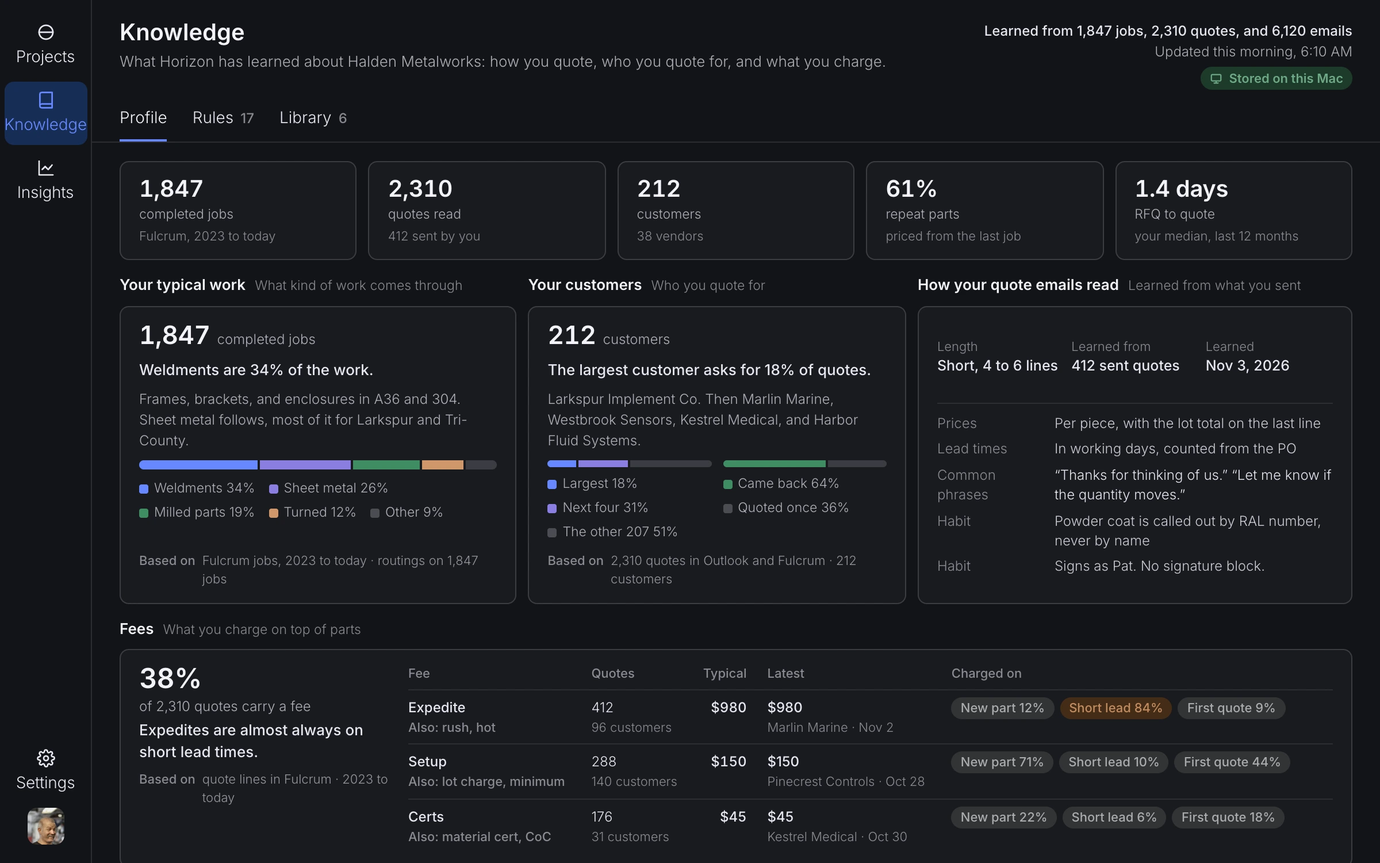
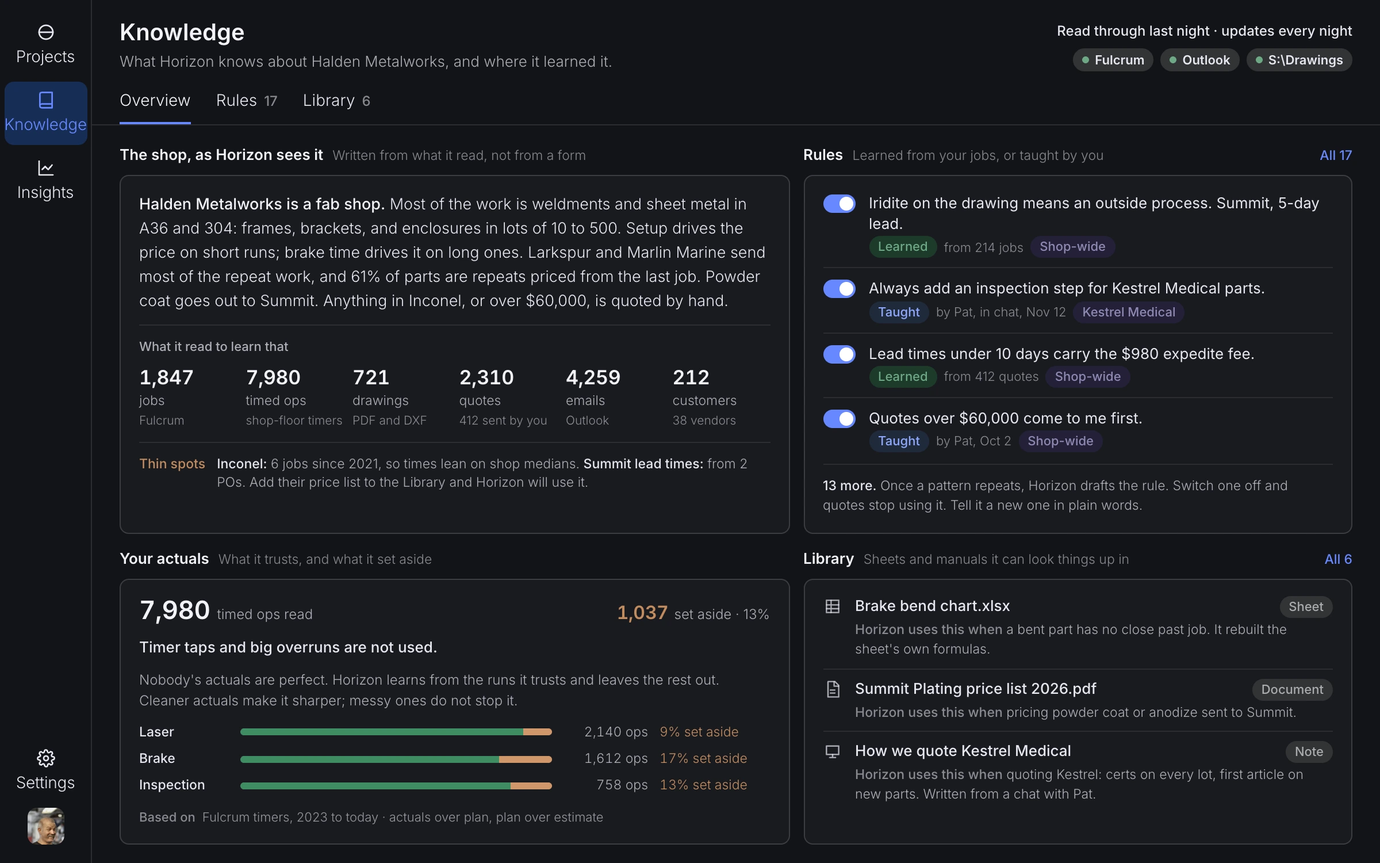
horizon shop-knowledge: Overview rebuilt around the demo walkthrough
The shop in prose, what it read (incl. timed ops), the unreliable actuals it set aside with the count,
a Rules preview (learned vs taught, per-customer scope, toggles), a Library row, three sources in the header.
Tabs Overview / Rules / Library per Alex's Nov 14 redesign. Phone stage 340x1330; posters re-rendered.

diff --git a/horizon/shop-knowledge/index.html b/horizon/shop-knowledge/index.html
@@ -1,18 +1,19 @@
 <!doctype html>
 <!--
-  Horizon - shop-knowledge - "What Horizon learned at Halden Metalworks"
-  A still, not a loop: the Knowledge screen of the shipped dark Horizon UI (rail Projects / Knowledge / Insights / Settings),
-  Shop Profile tab as merged Nov 16 (PR 20413): header, five KPI tiles, Your typical work, Your customers, Fees table,
-  How the shop's quote emails read. Filled with the Halden Metalworks sample set (Pat, Larkspur, Marlin Marine, Westbrook,
-  Kestrel, Harbor Fluid, Pinecrest, Tri-County; vendors Summit, Prairie, Apex). Tabs Rules 17 and Library 6 follow Alex's
-  Nov 15 Knowledge design. Design 1200x750, scales to width; under 700px the stage reflows to one column at 340 wide.
-  No libraries, no images, no audio. Simulated on sample data; every number is invented.
+  Horizon - shop-knowledge - "What Horizon knows about Halden Metalworks"
+  A still, not a loop: the Knowledge screen of the shipped dark Horizon UI (rail Projects / Knowledge / Insights / Settings).
+  Nov 19 rebuild around what Alex shows on every demo and what customers react to: the three sources (Fulcrum, Outlook,
+  the drawings drive), the shop written up in prose, what it read to learn that (incl. timed ops), the unreliable actuals
+  it set aside with the count, a Rules preview (learned vs taught, per-customer scope, toggles), and a Library row.
+  Tabs Overview / Rules 17 / Library 6 follow Alex's Nov 14 Knowledge redesign. Halden Metalworks sample set (Pat, Larkspur,
+  Marlin Marine, Kestrel Medical, Summit). Design 1200x750, scales to width; under 700px the stage reflows to one column
+  at 340 wide. No libraries, no audio. Simulated on sample data; every number is invented.
 -->
 <html lang="en">
 <head>
 <meta charset="utf-8" />
 <meta name="viewport" content="width=device-width, initial-scale=1" />
-<title>Horizon: what it learned at Halden Metalworks</title>
+<title>Horizon: what it knows about Halden Metalworks</title>
 <link rel="preconnect" href="https://fonts.googleapis.com" />
 <link rel="preconnect" href="https://fonts.gstatic.com" crossorigin />
 <link href="https://fonts.googleapis.com/css2?family=Inter:wght@300;400;500;600;700&display=swap" rel="stylesheet" />
@@ -42,14 +43,12 @@ body { display: flex; justify-content: center; }
 .hz-shop-knowledge .hzk-rail-spacer { flex: 1 1 auto; }
 .hz-shop-knowledge .hzk-avatar { width: 32px; height: 32px; border-radius: 8px; overflow: hidden; display: block; margin: 0 0 4px; }
 .hz-shop-knowledge .hzk-avatar img { display: block; width: 100%; height: 100%; object-fit: cover; }
-.hz-shop-knowledge .hzk-pill { flex: none; padding: 0 8px; border-radius: 12px; line-height: 20px; font-size: 11px; font-weight: 600; background: var(--tag-bg); color: var(--tag-fg); white-space: nowrap; }
-.hz-shop-knowledge .hzk-pill.warn { background: var(--warn-bg); color: var(--warn-fg); }
-.hz-shop-knowledge .hzk-pill.info { background: var(--info-bg); color: var(--info-fg); }
-.hz-shop-knowledge .hzk-pill.pend { background: var(--pend-bg); color: var(--pend-fg); }
 .hz-shop-knowledge .hzk-tag { display: inline-block; padding: 0 8px; border-radius: 10px; line-height: 19px; font-size: 11px; font-weight: 600; background: var(--tag-bg); color: var(--tag-fg); white-space: nowrap; }
-.hz-shop-knowledge .hzk-tag.warn { background: var(--warn-bg); color: var(--warn-fg); }
+.hz-shop-knowledge .hzk-tag.learned { background: var(--ok-bg); color: var(--ok-fg); }
+.hz-shop-knowledge .hzk-tag.taught { background: var(--info-bg); color: var(--info-fg); }
+.hz-shop-knowledge .hzk-tag.scope { background: var(--pend-bg); color: var(--pend-fg); }
 
-/* ---- the Knowledge page (Shop Profile tab) ---- */
+/* ---- the Knowledge page (Overview tab) ---- */
 .hz-shop-knowledge .sk-main { flex: 1 1 auto; min-width: 0; display: flex; flex-direction: column; min-height: 0; overflow: hidden; }
 .hz-shop-knowledge .sk-head { padding: 16px 24px 0; border-bottom: 1px solid var(--line); }
 .hz-shop-knowledge .sk-head-row { display: flex; align-items: flex-start; gap: 16px; }
@@ -58,104 +57,105 @@ body { display: flex; justify-content: center; }
 .hz-shop-knowledge .sk-title p { margin: 4px 0 0; font-size: 13px; color: var(--mute2); }
 .hz-shop-knowledge .sk-meta { flex: none; text-align: right; font-size: 12px; color: var(--mute2); line-height: 1.5; padding-top: 2px; }
 .hz-shop-knowledge .sk-meta b { display: block; font-weight: 500; color: var(--fg); }
-.hz-shop-knowledge .sk-meta .where { display: inline-flex; align-items: center; gap: 6px; margin-top: 4px; padding: 0 8px; border-radius: 10px; line-height: 20px; font-size: 11px; font-weight: 600; background: var(--ok-bg); color: var(--ok-fg); }
-.hz-shop-knowledge .sk-meta .where svg { width: 11px; height: 11px; fill: none; stroke: currentColor; stroke-width: 2.4; stroke-linecap: round; stroke-linejoin: round; }
+.hz-shop-knowledge .sk-sources { display: inline-flex; gap: 6px; margin-top: 6px; }
+.hz-shop-knowledge .sk-src { display: inline-flex; align-items: center; gap: 5px; padding: 0 8px; border-radius: 10px; line-height: 20px; font-size: 11px; font-weight: 600; background: var(--tag-bg); color: var(--fg); white-space: nowrap; }
+.hz-shop-knowledge .sk-src svg { width: 11px; height: 11px; fill: none; stroke: currentColor; stroke-width: 2.2; stroke-linecap: round; stroke-linejoin: round; }
+.hz-shop-knowledge .sk-src i { width: 6px; height: 6px; border-radius: 50%; background: var(--good-fg); }
 .hz-shop-knowledge .sk-tabs { display: flex; gap: 22px; margin-top: 12px; }
 .hz-shop-knowledge .sk-tab { padding: 0 0 9px; border: 0; background: none; font-size: 13.5px; font-weight: 500; color: var(--mute2); border-bottom: 2px solid transparent; display: flex; gap: 6px; align-items: baseline; }
 .hz-shop-knowledge .sk-tab i { font-style: normal; font-size: 12px; color: var(--mute3); font-weight: 500; }
 .hz-shop-knowledge .sk-tab.is-on { color: var(--fg-strong); border-bottom-color: var(--link); }
 .hz-shop-knowledge .sk-tab.is-on i { color: var(--count); }
-.hz-shop-knowledge .sk-body { flex: 1 1 auto; min-height: 0; padding: 16px 24px 0; display: flex; flex-direction: column; gap: 12px; overflow: hidden; }
+.hz-shop-knowledge .sk-body { flex: 1 1 auto; min-height: 0; padding: 16px 24px 16px; display: grid; grid-template-columns: 1.22fr 1fr; grid-template-rows: auto auto; gap: 12px; overflow: hidden; }
 
-/* KPI tiles */
-.hz-shop-knowledge .sk-kpis { display: grid; grid-template-columns: repeat(5, minmax(0,1fr)); gap: 10px; }
-.hz-shop-knowledge .sk-kpi { border: 1px solid var(--line2); border-radius: 8px; background: var(--card); padding: 12px 16px; display: flex; flex-direction: column; gap: 2px; }
-.hz-shop-knowledge .sk-kpi b { font-size: 20px; font-weight: 600; color: var(--fg-strong); line-height: 1.15; font-variant-numeric: tabular-nums; letter-spacing: -.01em; }
-.hz-shop-knowledge .sk-kpi span { font-size: 11.5px; color: var(--mute2); }
-.hz-shop-knowledge .sk-kpi small { font-size: 11px; color: var(--mute3); }
-
-/* groups */
-.hz-shop-knowledge .sk-row { display: grid; grid-template-columns: 1.05fr 1fr 1.15fr; gap: 10px; align-items: stretch; }
-.hz-shop-knowledge .sk-group { display: flex; flex-direction: column; gap: 8px; min-width: 0; }
+/* groups and cards */
+.hz-shop-knowledge .sk-group { display: flex; flex-direction: column; gap: 8px; min-width: 0; min-height: 0; }
 .hz-shop-knowledge .sk-gh { display: flex; align-items: baseline; gap: 8px; min-width: 0; }
 .hz-shop-knowledge .sk-gh h2 { margin: 0; font-size: 13px; font-weight: 600; color: var(--fg-strong); white-space: nowrap; }
 .hz-shop-knowledge .sk-gh span { font-size: 11.5px; color: var(--mute3); white-space: nowrap; overflow: hidden; text-overflow: ellipsis; }
-.hz-shop-knowledge .sk-card { flex: 1 1 auto; border: 1px solid var(--line2); border-radius: 8px; background: var(--card); padding: 12px 16px; display: flex; flex-direction: column; gap: 8px; min-width: 0; }
-.hz-shop-knowledge .sk-stat { display: flex; align-items: baseline; gap: 6px; }
+.hz-shop-knowledge .sk-gh .more { margin-left: auto; font-size: 11.5px; color: var(--link); font-weight: 500; }
+.hz-shop-knowledge .sk-card { flex: 1 1 auto; border: 1px solid var(--line2); border-radius: 8px; background: var(--card); padding: 14px 16px; display: flex; flex-direction: column; gap: 10px; min-width: 0; }
+.hz-shop-knowledge .sk-prose { margin: 0; font-size: 13.5px; line-height: 1.55; color: var(--fg); font-weight: 300; }
+.hz-shop-knowledge .sk-prose b { font-weight: 500; color: var(--fg-strong); }
+.hz-shop-knowledge .sk-readh { display: flex; align-items: baseline; gap: 8px; padding-top: 10px; border-top: 1px solid var(--line); font-size: 11px; color: var(--mute3); }
+.hz-shop-knowledge .sk-readh b { font-weight: 500; color: var(--mute2); }
+.hz-shop-knowledge .sk-read { display: grid; grid-template-columns: repeat(6, minmax(0,1fr)); gap: 8px; margin: 0; padding: 0; list-style: none; }
+.hz-shop-knowledge .sk-read li { display: flex; flex-direction: column; gap: 1px; min-width: 0; }
+.hz-shop-knowledge .sk-read b { font-size: 17px; font-weight: 600; color: var(--fg-strong); line-height: 1.15; font-variant-numeric: tabular-nums; letter-spacing: -.01em; }
+.hz-shop-knowledge .sk-read span { font-size: 11.5px; color: var(--mute2); white-space: nowrap; }
+.hz-shop-knowledge .sk-read small { font-size: 10.5px; color: var(--mute3); white-space: nowrap; overflow: hidden; text-overflow: ellipsis; }
+
+/* thin spots */
+.hz-shop-knowledge .sk-thin { display: grid; grid-template-columns: auto 1fr; gap: 4px 10px; margin: 0; padding-top: 10px; border-top: 1px solid var(--line); font-size: 11.5px; line-height: 1.45; }
+.hz-shop-knowledge .sk-thin dt { color: var(--warn-fg); font-weight: 500; white-space: nowrap; }
+.hz-shop-knowledge .sk-thin dd { margin: 0; color: var(--mute2); }
+.hz-shop-knowledge .sk-thin dd b { font-weight: 500; color: var(--fg); }
+
+/* actuals */
+.hz-shop-knowledge .sk-stat { display: flex; align-items: baseline; gap: 6px; flex-wrap: wrap; }
 .hz-shop-knowledge .sk-stat b { font-size: 22px; font-weight: 600; color: var(--fg-strong); line-height: 1.1; font-variant-numeric: tabular-nums; letter-spacing: -.01em; }
 .hz-shop-knowledge .sk-stat span { font-size: 12px; color: var(--mute2); }
+.hz-shop-knowledge .sk-stat .set { margin-left: auto; display: inline-flex; align-items: baseline; gap: 5px; }
+.hz-shop-knowledge .sk-stat .set b { font-size: 16px; color: var(--warn-fg); }
 .hz-shop-knowledge .sk-card h3 { margin: 0; font-size: 13px; font-weight: 500; color: var(--fg); line-height: 1.4; }
 .hz-shop-knowledge .sk-detail { margin: 0; font-size: 12px; line-height: 1.5; color: var(--mute2); }
-.hz-shop-knowledge .sk-bar { display: flex; height: 8px; border-radius: 4px; overflow: hidden; gap: 2px; }
-.hz-shop-knowledge .sk-bar i { display: block; height: 100%; }
-.hz-shop-knowledge .sk-legend { display: flex; flex-wrap: wrap; gap: 4px 12px; margin: 0; padding: 0; list-style: none; font-size: 11.5px; color: var(--mute2); }
-.hz-shop-knowledge .sk-legend li { display: flex; align-items: center; gap: 5px; white-space: nowrap; }
-.hz-shop-knowledge .sk-legend i { width: 8px; height: 8px; border-radius: 2px; flex: none; }
+.hz-shop-knowledge .sk-ops { display: grid; grid-template-columns: 78px 1fr 74px 96px; gap: 6px 10px; align-items: center; margin: 0; padding: 0; list-style: none; font-size: 11.5px; color: var(--mute2); }
+.hz-shop-knowledge .sk-ops li { display: contents; }
+.hz-shop-knowledge .sk-ops .op { color: var(--fg); font-weight: 500; }
+.hz-shop-knowledge .sk-ops .bar { height: 6px; border-radius: 3px; background: var(--line2); overflow: hidden; display: flex; }
+.hz-shop-knowledge .sk-ops .bar i { display: block; height: 100%; background: var(--good); }
+.hz-shop-knowledge .sk-ops .bar em { display: block; height: 100%; background: var(--warn); }
+.hz-shop-knowledge .sk-ops .n { text-align: right; font-variant-numeric: tabular-nums; white-space: nowrap; }
+.hz-shop-knowledge .sk-ops .s { white-space: nowrap; color: var(--warn-fg); font-variant-numeric: tabular-nums; }
 .hz-shop-knowledge .sk-cites { display: flex; gap: 6px; align-items: baseline; font-size: 11px; color: var(--mute3); margin-top: auto; line-height: 1.45; }
 .hz-shop-knowledge .sk-cites b { font-weight: 500; white-space: nowrap; }
 .hz-shop-knowledge .sk-cites span { color: var(--mute); }
-.hz-shop-knowledge .sk-split { display: grid; grid-template-columns: 1fr 1fr; gap: 10px; }
-.hz-shop-knowledge .sk-split .sk-stat b { font-size: 19px; }
-.hz-shop-knowledge .sk-split .sk-mini { display: flex; flex-direction: column; gap: 6px; }
-.hz-shop-knowledge .sk-split .sk-mini .sk-bar { height: 6px; }
 
-/* slot colors: the kit's muted palette */
-.hz-shop-knowledge [data-slot="0"] { background: #6788ff; }
-.hz-shop-knowledge [data-slot="1"] { background: #8a7fe0; }
-.hz-shop-knowledge [data-slot="2"] { background: #3f8c63; }
-.hz-shop-knowledge [data-slot="3"] { background: #cf976a; }
-.hz-shop-knowledge [data-slot="other"] { background: #3b3d43; }
-.hz-shop-knowledge .sk-legend li[data-slot] { background: none; }
-.hz-shop-knowledge .sk-legend li[data-slot="0"] i { background: #6788ff; }
-.hz-shop-knowledge .sk-legend li[data-slot="1"] i { background: #8a7fe0; }
-.hz-shop-knowledge .sk-legend li[data-slot="2"] i { background: #3f8c63; }
-.hz-shop-knowledge .sk-legend li[data-slot="3"] i { background: #cf976a; }
-.hz-shop-knowledge .sk-legend li[data-slot="other"] i { background: #4b4d53; }
+/* rules */
+.hz-shop-knowledge .sk-rules { margin: 0; padding: 0; list-style: none; display: flex; flex-direction: column; }
+.hz-shop-knowledge .sk-rule { display: grid; grid-template-columns: 30px minmax(0,1fr); gap: 2px 10px; padding: 8px 0; border-top: 1px solid var(--line); align-items: start; }
+.hz-shop-knowledge .sk-rule:first-child { border-top: 0; padding-top: 0; }
+.hz-shop-knowledge .sk-rule:last-child { padding-bottom: 0; }
+.hz-shop-knowledge .sk-tog { grid-row: 1 / 3; width: 28px; height: 16px; border-radius: 8px; background: var(--link); position: relative; margin-top: 2px; }
+.hz-shop-knowledge .sk-tog::after { content: ""; position: absolute; top: 2px; right: 2px; width: 12px; height: 12px; border-radius: 50%; background: #fff; }
+.hz-shop-knowledge .sk-rule p { margin: 0; font-size: 13px; line-height: 1.4; color: var(--fg); font-weight: 400; }
+.hz-shop-knowledge .sk-rule .meta { display: flex; align-items: center; gap: 6px; flex-wrap: wrap; font-size: 11px; color: var(--mute3); }
+.hz-shop-knowledge .sk-rule .meta .hzk-tag { font-weight: 500; }
+.hz-shop-knowledge .sk-foot { margin: 0; padding-top: 10px; border-top: 1px solid var(--line); font-size: 11.5px; line-height: 1.45; color: var(--mute2); }
+.hz-shop-knowledge .sk-foot b { font-weight: 500; color: var(--fg); }
 
-/* quote-email tone panel */
-.hz-shop-knowledge .sk-tone { display: grid; grid-template-columns: repeat(3, minmax(0,1fr)); gap: 6px; }
-.hz-shop-knowledge .sk-tone div { display: flex; flex-direction: column; gap: 0; min-width: 0; }
-.hz-shop-knowledge .sk-tone dt { font-size: 11px; color: var(--mute3); }
-.hz-shop-knowledge .sk-tone dd { margin: 0; font-size: 12.5px; font-weight: 500; color: var(--fg); white-space: nowrap; overflow: hidden; text-overflow: ellipsis; }
-.hz-shop-knowledge .sk-rests { display: grid; grid-template-columns: 92px minmax(0,1fr); gap: 5px 10px; margin: 0; padding-top: 8px; border-top: 1px solid var(--line); font-size: 12px; line-height: 1.45; }
-.hz-shop-knowledge .sk-rests dt { color: var(--mute3); }
-.hz-shop-knowledge .sk-rests dd { margin: 0; color: rgba(230,230,240,.86); }
-.hz-shop-knowledge .sk-rests dd q { quotes: "\201C" "\201D"; color: var(--fg); }
+/* library */
+.hz-shop-knowledge .sk-lib { margin: 0; padding: 0; list-style: none; display: flex; flex-direction: column; }
+.hz-shop-knowledge .sk-lib li { display: grid; grid-template-columns: 18px minmax(0,1fr) auto; gap: 2px 10px; padding: 8px 0; border-top: 1px solid var(--line); align-items: start; }
+.hz-shop-knowledge .sk-lib li:first-child { border-top: 0; padding-top: 0; }
+.hz-shop-knowledge .sk-lib li:last-child { padding-bottom: 0; }
+.hz-shop-knowledge .sk-lib svg { grid-row: 1 / 3; width: 16px; height: 16px; margin-top: 1px; fill: none; stroke: var(--mute2); stroke-width: 1.8; stroke-linecap: round; stroke-linejoin: round; }
+.hz-shop-knowledge .sk-lib .name { font-size: 13px; font-weight: 500; color: var(--fg); line-height: 1.35; white-space: nowrap; overflow: hidden; text-overflow: ellipsis; }
+.hz-shop-knowledge .sk-lib .use { grid-column: 2 / 4; font-size: 11.5px; line-height: 1.45; color: var(--mute2); }
+.hz-shop-knowledge .sk-lib .use b { font-weight: 500; color: var(--mute3); }
+.hz-shop-knowledge .sk-lib .hzk-tag { font-weight: 500; }
 
-/* fees table */
-.hz-shop-knowledge .sk-fees { display: grid; grid-template-columns: 220px minmax(0,1fr); gap: 14px; align-items: start; }
-.hz-shop-knowledge .sk-fees .sk-stat { flex-direction: column; align-items: flex-start; gap: 2px; }
-.hz-shop-knowledge .sk-fees .sk-stat b { font-size: 24px; }
-.hz-shop-knowledge .sk-fees h3 { margin-top: 2px; }
-.hz-shop-knowledge .sk-table { width: 100%; border-collapse: collapse; font-size: 12px; }
-.hz-shop-knowledge .sk-table th, .hz-shop-knowledge .sk-table td { text-align: left; padding: 6px 10px 6px 0; border-top: 1px solid var(--line); vertical-align: top; }
-.hz-shop-knowledge .sk-table thead th { border-top: 0; padding-top: 0; padding-bottom: 5px; font-size: 11px; font-weight: 500; color: var(--mute3); }
-.hz-shop-knowledge .sk-table th[scope="row"] { font-weight: 500; color: var(--fg); }
-.hz-shop-knowledge .sk-table .num { text-align: right; font-variant-numeric: tabular-nums; padding-right: 18px; }
-.hz-shop-knowledge .sk-table .strong { font-weight: 500; color: var(--fg); }
-.hz-shop-knowledge .sk-table .sub { display: block; font-size: 11px; color: var(--mute3); }
-.hz-shop-knowledge .sk-table .chips { display: flex; gap: 5px; flex-wrap: nowrap; }
-.hz-shop-knowledge .sk-table .chips .hzk-tag { font-weight: 500; }
-
-/* phone: one column at 340 wide (Nov 19: was 640, which scaled 11px type to 6px on a 390 phone), rail hidden */
+/* phone: one column at 340 wide, rail hidden; order by what matters: shop, rules, actuals, library */
 @media (max-width: 699px) {
-  .hz-shop-knowledge-stage { width: 340px; height: 1275px; }
+  .hz-shop-knowledge-stage { width: 340px; height: 1330px; }
   .hz-shop-knowledge .hzk-rail { display: none; }
   .hz-shop-knowledge .sk-meta { display: none; }
   .hz-shop-knowledge .sk-head { padding: 14px 16px 0; }
   .hz-shop-knowledge .sk-title p { font-size: 12.5px; }
-  .hz-shop-knowledge .sk-body { padding: 12px 16px 0; gap: 12px; }
-  .hz-shop-knowledge .sk-kpis { grid-template-columns: repeat(3, minmax(0,1fr)); gap: 8px; }
-  .hz-shop-knowledge .sk-kpi { padding: 10px 12px; }
-  .hz-shop-knowledge .sk-kpi:nth-child(n+4) { display: none; }
-  .hz-shop-knowledge .sk-kpi small { display: none; }
-  .hz-shop-knowledge .sk-row { grid-template-columns: 1fr; }
-  .hz-shop-knowledge .sk-group--tone { display: none; }
-  .hz-shop-knowledge .sk-legend { gap: 4px 10px; }
-  .hz-shop-knowledge .sk-fees { grid-template-columns: 1fr; gap: 8px; }
-  .hz-shop-knowledge .sk-table th:nth-child(2), .hz-shop-knowledge .sk-table td:nth-child(2),
-  .hz-shop-knowledge .sk-table th:nth-child(4), .hz-shop-knowledge .sk-table td:nth-child(4) { display: none; }
-  .hz-shop-knowledge .sk-table .chips { flex-wrap: wrap; gap: 4px; }
+  .hz-shop-knowledge .sk-body { padding: 12px 16px 12px; grid-template-columns: 1fr; grid-template-rows: none; gap: 12px; }
+  .hz-shop-knowledge .sk-group--shop { order: 1; }
+  .hz-shop-knowledge .sk-group--rules { order: 2; }
+  .hz-shop-knowledge .sk-group--actuals { order: 3; }
+  .hz-shop-knowledge .sk-group--lib { order: 4; }
+  .hz-shop-knowledge .sk-card { padding: 12px 14px; }
+  .hz-shop-knowledge .sk-prose { font-size: 13px; }
+  .hz-shop-knowledge .sk-read { grid-template-columns: repeat(3, minmax(0,1fr)); gap: 8px 6px; }
+  .hz-shop-knowledge .sk-read small { display: none; }
+  .hz-shop-knowledge .sk-ops { grid-template-columns: 70px 1fr 84px; }
+  .hz-shop-knowledge .sk-group--lib { display: none; }
+  .hz-shop-knowledge .sk-thin { display: none; }
+  .hz-shop-knowledge .sk-ops .n { display: none; }
+  .hz-shop-knowledge .sk-lib .name { white-space: normal; }
 }
 </style>
 </head>
@@ -177,100 +177,80 @@ body { display: flex; justify-content: center; }
           <div class="sk-head-row">
             <div class="sk-title">
               <h1>Knowledge</h1>
-              <p>What Horizon has learned about Halden Metalworks: how you quote, who you quote for, and what you charge.</p>
+              <p>What Horizon knows about Halden Metalworks, and where it learned it.</p>
             </div>
             <div class="sk-meta">
-              <b>Learned from 1,847 jobs, 2,310 quotes, and 6,120 emails</b>
-              Updated this morning, 6:10 AM
-              <br /><span class="where"><svg viewBox="0 0 24 24"><rect x="3" y="4" width="18" height="12" rx="2"/><path d="M8 20h8M12 16v4"/></svg>Stored on this Mac</span>
+              <b>Read through last night · updates every night</b>
+              <span class="sk-sources">
+                <span class="sk-src"><i></i>Fulcrum</span>
+                <span class="sk-src"><i></i>Outlook</span>
+                <span class="sk-src"><i></i>S:\Drawings</span>
+              </span>
             </div>
           </div>
           <div class="sk-tabs">
-            <button class="sk-tab is-on">Profile</button>
+            <button class="sk-tab is-on">Overview</button>
             <button class="sk-tab">Rules <i>17</i></button>
             <button class="sk-tab">Library <i>6</i></button>
           </div>
         </header>
 
         <div class="sk-body">
-          <div class="sk-kpis">
-            <div class="sk-kpi"><b>1,847</b><span>completed jobs</span><small>Fulcrum, 2023 to today</small></div>
-            <div class="sk-kpi"><b>2,310</b><span>quotes read</span><small>412 sent by you</small></div>
-            <div class="sk-kpi"><b>212</b><span>customers</span><small>38 vendors</small></div>
-            <div class="sk-kpi"><b>61%</b><span>repeat parts</span><small>priced from the last job</small></div>
-            <div class="sk-kpi"><b>1.4 days</b><span>RFQ to quote</span><small>your median, last 12 months</small></div>
-          </div>
-
-          <div class="sk-row">
-            <section class="sk-group">
-              <div class="sk-gh"><h2>Your typical work</h2><span>What kind of work comes through</span></div>
-              <div class="sk-card">
-                <div class="sk-stat"><b>1,847</b><span>completed jobs</span></div>
-                <h3>Weldments are 34% of the work.</h3>
-                <p class="sk-detail">Frames, brackets, and enclosures in A36 and 304. Sheet metal follows, most of it for Larkspur and Tri-County.</p>
-                <div class="sk-bar"><i data-slot="0" style="width:34%"></i><i data-slot="1" style="width:26%"></i><i data-slot="2" style="width:19%"></i><i data-slot="3" style="width:12%"></i><i data-slot="other" style="width:9%"></i></div>
-                <ul class="sk-legend"><li data-slot="0"><i></i>Weldments 34%</li><li data-slot="1"><i></i>Sheet metal 26%</li><li data-slot="2"><i></i>Milled parts 19%</li><li data-slot="3"><i></i>Turned 12%</li><li data-slot="other"><i></i>Other 9%</li></ul>
-                <div class="sk-cites"><b>Based on</b><span>Fulcrum jobs, 2023 to today · routings on 1,847 jobs</span></div>
-              </div>
-            </section>
-
-            <section class="sk-group">
-              <div class="sk-gh"><h2>Your customers</h2><span>Who you quote for</span></div>
-              <div class="sk-card">
-                <div class="sk-stat"><b>212</b><span>customers</span></div>
-                <h3>The largest customer asks for 18% of quotes.</h3>
-                <p class="sk-detail">Larkspur Implement Co. Then Marlin Marine, Westbrook Sensors, Kestrel Medical, and Harbor Fluid Systems.</p>
-                <div class="sk-split">
-                  <div class="sk-mini">
-                    <div class="sk-bar"><i data-slot="0" style="width:18%"></i><i data-slot="1" style="width:31%"></i><i data-slot="other" style="width:51%"></i></div>
-                    <ul class="sk-legend"><li data-slot="0"><i></i>Largest 18%</li><li data-slot="1"><i></i>Next four 31%</li><li data-slot="other"><i></i>The other 207 51%</li></ul>
-                  </div>
-                  <div class="sk-mini">
-                    <div class="sk-bar"><i data-slot="2" style="width:64%"></i><i data-slot="other" style="width:36%"></i></div>
-                    <ul class="sk-legend"><li data-slot="2"><i></i>Came back 64%</li><li data-slot="other"><i></i>Quoted once 36%</li></ul>
-                  </div>
-                </div>
-                <div class="sk-cites"><b>Based on</b><span>2,310 quotes in Outlook and Fulcrum · 212 customers</span></div>
-              </div>
-            </section>
-
-            <section class="sk-group sk-group--tone">
-              <div class="sk-gh"><h2>How your quote emails read</h2><span>Learned from what you sent</span></div>
-              <div class="sk-card">
-                <dl class="sk-tone">
-                  <div><dt>Length</dt><dd>Short, 4 to 6 lines</dd></div>
-                  <div><dt>Learned from</dt><dd>412 sent quotes</dd></div>
-                  <div><dt>Learned</dt><dd>Nov 3, 2026</dd></div>
-                </dl>
-                <dl class="sk-rests">
-                  <dt>Prices</dt><dd>Per piece, with the lot total on the last line</dd>
-                  <dt>Lead times</dt><dd>In working days, counted from the PO</dd>
-                  <dt>Common phrases</dt><dd><q>Thanks for thinking of us.</q> <q>Let me know if the quantity moves.</q></dd>
-                  <dt>Habit</dt><dd>Powder coat is called out by RAL number, never by name</dd>
-                  <dt>Habit</dt><dd>Signs as Pat. No signature block.</dd>
-                </dl>
-              </div>
-            </section>
-          </div>
-
-          <section class="sk-group">
-            <div class="sk-gh"><h2>Fees</h2><span>What you charge on top of parts</span></div>
+          <section class="sk-group sk-group--shop">
+            <div class="sk-gh"><h2>The shop, as Horizon sees it</h2><span>Written from what it read, not from a form</span></div>
             <div class="sk-card">
-              <div class="sk-fees">
-                <div>
-                  <div class="sk-stat"><b>38%</b><span>of 2,310 quotes carry a fee</span></div>
-                  <h3>Expedites are almost always on short lead times.</h3>
-                  <div class="sk-cites" style="margin-top:8px"><b>Based on</b><span>quote lines in Fulcrum · 2023 to today</span></div>
-                </div>
-                <table class="sk-table" aria-label="Fee kinds">
-                  <thead><tr><th scope="col">Fee</th><th scope="col">Quotes</th><th scope="col" class="num">Typical</th><th scope="col">Latest</th><th scope="col">Charged on</th></tr></thead>
-                  <tbody>
-                    <tr><th scope="row">Expedite<span class="sub">Also: rush, hot</span></th><td>412<span class="sub">96 customers</span></td><td class="num strong">$980</td><td><span class="strong">$980</span><span class="sub">Marlin Marine · Nov 2</span></td><td><span class="chips"><span class="hzk-tag">New part 12%</span><span class="hzk-tag warn">Short lead 84%</span><span class="hzk-tag">First quote 9%</span></span></td></tr>
-                    <tr><th scope="row">Setup<span class="sub">Also: lot charge, minimum</span></th><td>288<span class="sub">140 customers</span></td><td class="num strong">$150</td><td><span class="strong">$150</span><span class="sub">Pinecrest Controls · Oct 28</span></td><td><span class="chips"><span class="hzk-tag">New part 71%</span><span class="hzk-tag">Short lead 10%</span><span class="hzk-tag">First quote 44%</span></span></td></tr>
-                    <tr><th scope="row">Certs<span class="sub">Also: material cert, CoC</span></th><td>176<span class="sub">31 customers</span></td><td class="num strong">$45</td><td><span class="strong">$45</span><span class="sub">Kestrel Medical · Oct 30</span></td><td><span class="chips"><span class="hzk-tag">New part 22%</span><span class="hzk-tag">Short lead 6%</span><span class="hzk-tag">First quote 18%</span></span></td></tr>
-                  </tbody>
-                </table>
-              </div>
+              <p class="sk-prose"><b>Halden Metalworks is a fab shop.</b> Most of the work is weldments and sheet metal in A36 and 304: frames, brackets, and enclosures in lots of 10 to 500. Setup drives the price on short runs; brake time drives it on long ones. Larkspur and Marlin Marine send most of the repeat work, and 61% of parts are repeats priced from the last job. Powder coat goes out to Summit. Anything in Inconel, or over $60,000, is quoted by hand.</p>
+              <div class="sk-readh"><b>What it read to learn that</b></div>
+              <ul class="sk-read">
+                <li><b>1,847</b><span>jobs</span><small>Fulcrum</small></li>
+                <li><b>7,980</b><span>timed ops</span><small>shop-floor timers</small></li>
+                <li><b>721</b><span>drawings</span><small>PDF and DXF</small></li>
+                <li><b>2,310</b><span>quotes</span><small>412 sent by you</small></li>
+                <li><b>4,259</b><span>emails</span><small>Outlook</small></li>
+                <li><b>212</b><span>customers</span><small>38 vendors</small></li>
+              </ul>
+              <dl class="sk-thin">
+                <dt>Thin spots</dt><dd><b>Inconel:</b> 6 jobs since 2021, so times lean on shop medians. <b>Summit lead times:</b> from 2 POs. Add their price list to the Library and Horizon will use it.</dd>
+              </dl>
+            </div>
+          </section>
+
+          <section class="sk-group sk-group--rules">
+            <div class="sk-gh"><h2>Rules</h2><span>Learned from your jobs, or taught by you</span><span class="more">All 17</span></div>
+            <div class="sk-card">
+              <ul class="sk-rules">
+                <li class="sk-rule"><span class="sk-tog"></span><p>Iridite on the drawing means an outside process. Summit, 5-day lead.</p><span class="meta"><span class="hzk-tag learned">Learned</span>from 214 jobs<span class="hzk-tag scope">Shop-wide</span></span></li>
+                <li class="sk-rule"><span class="sk-tog"></span><p>Always add an inspection step for Kestrel Medical parts.</p><span class="meta"><span class="hzk-tag taught">Taught</span>by Pat, in chat, Nov 12<span class="hzk-tag scope">Kestrel Medical</span></span></li>
+                <li class="sk-rule"><span class="sk-tog"></span><p>Lead times under 10 days carry the $980 expedite fee.</p><span class="meta"><span class="hzk-tag learned">Learned</span>from 412 quotes<span class="hzk-tag scope">Shop-wide</span></span></li>
+                <li class="sk-rule"><span class="sk-tog"></span><p>Quotes over $60,000 come to me first.</p><span class="meta"><span class="hzk-tag taught">Taught</span>by Pat, Oct 2<span class="hzk-tag scope">Shop-wide</span></span></li>
+              </ul>
+              <p class="sk-foot"><b>13 more.</b> Once a pattern repeats, Horizon drafts the rule. Switch one off and quotes stop using it. Tell it a new one in plain words.</p>
+            </div>
+          </section>
+
+          <section class="sk-group sk-group--actuals">
+            <div class="sk-gh"><h2>Your actuals</h2><span>What it trusts, and what it set aside</span></div>
+            <div class="sk-card">
+              <div class="sk-stat"><b>7,980</b><span>timed ops read</span><span class="set"><b>1,037</b><span>set aside · 13%</span></span></div>
+              <h3>Timer taps and big overruns are not used.</h3>
+              <p class="sk-detail">Nobody's actuals are perfect. Horizon learns from the runs it trusts and leaves the rest out. Cleaner actuals make it sharper; messy ones do not stop it.</p>
+              <ul class="sk-ops">
+                <li><span class="op">Laser</span><span class="bar"><i style="width:91%"></i><em style="width:9%"></em></span><span class="n">2,140 ops</span><span class="s">9% set aside</span></li>
+                <li><span class="op">Brake</span><span class="bar"><i style="width:83%"></i><em style="width:17%"></em></span><span class="n">1,612 ops</span><span class="s">17% set aside</span></li>
+                <li><span class="op">Inspection</span><span class="bar"><i style="width:87%"></i><em style="width:13%"></em></span><span class="n">758 ops</span><span class="s">13% set aside</span></li>
+              </ul>
+              <div class="sk-cites"><b>Based on</b><span>Fulcrum timers, 2023 to today · actuals over plan, plan over estimate</span></div>
+            </div>
+          </section>
+
+          <section class="sk-group sk-group--lib">
+            <div class="sk-gh"><h2>Library</h2><span>Sheets and manuals it can look things up in</span><span class="more">All 6</span></div>
+            <div class="sk-card">
+              <ul class="sk-lib">
+                <li><svg viewBox="0 0 24 24"><path d="M4 4h16v16H4z"/><path d="M4 10h16M4 15h16M10 4v16"/></svg><span class="name">Brake bend chart.xlsx</span><span class="hzk-tag">Sheet</span><span class="use"><b>Horizon uses this when</b> a bent part has no close past job. It rebuilt the sheet's own formulas.</span></li>
+                <li><svg viewBox="0 0 24 24"><path d="M6 2h9l5 5v15H6z"/><path d="M14 2v6h6"/><path d="M9 13h6M9 17h6"/></svg><span class="name">Summit Plating price list 2026.pdf</span><span class="hzk-tag">Document</span><span class="use"><b>Horizon uses this when</b> pricing powder coat or anodize sent to Summit.</span></li>
+                <li><svg viewBox="0 0 24 24"><path d="M4 5h16v11H4z"/><path d="M8 20h8M12 16v4"/></svg><span class="name">How we quote Kestrel Medical</span><span class="hzk-tag">Note</span><span class="use"><b>Horizon uses this when</b> quoting Kestrel: certs on every lot, first article on new parts. Written from a chat with Pat.</span></li>
+              </ul>
             </div>
           </section>
         </div>
@@ -284,7 +264,7 @@ body { display: flex; justify-content: center; }
     var stage = root.querySelector('.hz-shop-knowledge-stage');
     function fit() {
       var phone = window.matchMedia('(max-width: 699px)').matches;
-      var SW = phone ? 340 : 1200, SH = phone ? 1275 : 750;
+      var SW = phone ? 340 : 1200, SH = phone ? 1330 : 750;
       var w = root.clientWidth || SW;
       var s = w / SW;
       root.style.setProperty('--s', String(s));
